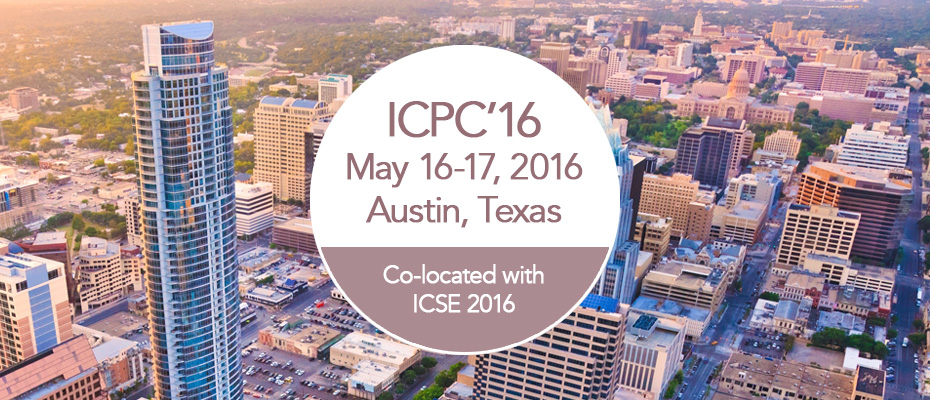
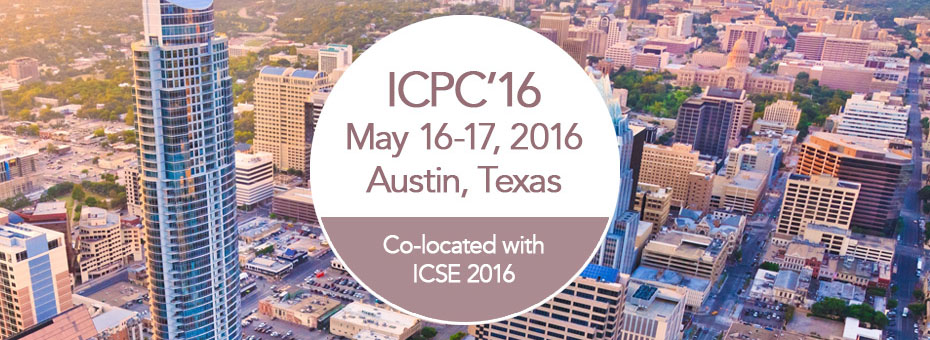
Updates

diff --git a/index.html b/index.html
@@ -142,7 +142,7 @@
   @media only screen and (min-width: 715px) {
     /* For tablet portrait: */
     .container {width:455px}
-    .imageDisplay {width:100%; margin-left:0px; margin-bottom:10px; height:auto;}
+    .imageDisplay {width:455px; height:166px; margin-left:0px; margin-bottom:4px; height:auto;}
     .box_Header {width:100%;}
     .box_A {width:100%;}
     .box_B {width:100%;}
@@ -152,7 +152,7 @@
   @media only screen and (min-width: 920px) {
     /* For tablet landscape: */
     .container {width:670px}
-    .imageDisplay {width:660px; height:285px; margin-left:10px; margin-bottom:10px;}
+    .imageDisplay {width:660px; height:241px; margin-left:10px; margin-bottom:10px;}
     .box_Header {width:660px; margin-left: 10px;}
     .box_Header h2 {margin-left: 0px; margin-right: 0px;}
     .box_A {width:325px; height:500px; margin-left:10px;}
@@ -163,7 +163,7 @@
   @media only screen and (min-width: 1190px) {
     /* For desktop: */
     .container {width:940px}
-    .imageDisplay {width:930px; height:400px; margin-left:10px; margin-bottom:10px;}
+    .imageDisplay {width:930px; height:340px; margin-left:10px; margin-bottom:10px;}
     .imageText {width:930px; display: inline;}
     .box_Header {width:930px; margin-left: 10px;}
     .box_A {width:303px; height:515px; margin-left:10px;}
@@ -198,14 +198,14 @@
           <img src="./images/menu.gif" alt="MENU" width="40" height="40">
         </div>
       </div>
-      <a href="#"><div class="navItem" style="color:#FFF; background-color:rgba(255,255,255,0.2); border-right:none;" id="menu0"><div style="width:44px; margin:auto;">HOME</div></div></a>
-      <a href="call.html"><div class="navItem" id="menu1"><div style="width:149px; margin:auto;">CALL FOR PAPERS</div></div></a>
-      <a href="https://easychair.org/conferences/?conf=icpc20160" target="_blank"><div class="navItem" id="menu2"><div style="width:149px; margin:auto;">PAPER SUBMISSION</div></div></a>
-      <a href="organization-program.html"><div class="navItem" id="menu4"><div style="width:102px; margin:auto;">ORGANIZATION</div></div></a>
-      <a href="keynote.html"><div class="navItem" id="menu5"><div style="width:102px; margin:auto;">KEYNOTE</div></div></a>
-      <a href="http://2016.icse.cs.txstate.edu/venue" target="_blank"><div class="navItem" id="menu7"><div style="width:46px; margin:auto;">VENUE</div></div></a>
-      <a href="http://2016.icse.cs.txstate.edu" target="_blank"><div class="navItem" id="menu8"><div style="width:52px; margin:auto;">AUSTIN</div></div></a>
-      <div class="spacer"></div>
+      <a href="#"><div class="navItem" style="color:#FFF; background-color:rgba(255,255,255,0.2); border-right:none;" id="menu0"><div style="width:42px; margin:auto;">HOME</div></div></a>
+      <a href="registration.html"><div class="navItem" id="menu1"><div style="width:99px; margin:auto;">REGISTRATION</div></div></a>
+      <a href="call.html"><div class="navItem" id="menu2"><div style="width:128px; margin:auto;">CALL FOR PAPERS</div></div></a>
+      <a href="https://easychair.org/conferences/?conf=icpc20160" target="_blank"><div class="navItem" id="menu3"><div style="width:139px; margin:auto;">PAPER SUBMISSION</div></div></a>
+      <a href="organization-program.html"><div class="navItem" id="menu4"><div style="width:103px; margin:auto;">ORGANIZATION</div></div></a>
+      <a href="keynote.html"><div class="navItem" id="menu5"><div style="width:64px; margin:auto;">KEYNOTE</div></div></a>
+      <a href="http://2016.icse.cs.txstate.edu/venue" target="_blank"><div class="navItem" id="menu6"><div style="width:46px; margin:auto;">VENUE</div></div></a>
+      <a href="http://2016.icse.cs.txstate.edu" target="_blank"><div class="navItem" id="menu7"><div style="width:50px; margin:auto;">AUSTIN</div></div></a>
     </div>
     <!-- End Navigation Menu -->
 

diff --git a/call.html b/call.html
@@ -232,14 +232,14 @@
           <img src="./images/menu.gif" alt="MENU" width="40" height="40">
         </div>
       </div>
-      <a href="index.html"><div class="navItem" id="menu0"><div style="width:44px; margin:auto;">HOME</div></div></a>
-      <a href="#"><div class="navItem" style="color:#FFF; background-color:rgba(255,255,255,0.2); border-right:none; border-left:none;" id="menu1"><div style="width:149px; margin:auto;">CALL FOR PAPERS</div></div></a>
-      <a href="https://easychair.org/conferences/?conf=icpc20160" target="_blank"><div class="navItem" id="menu2"><div style="width:149px; margin:auto;">PAPER SUBMISSION</div></div></a>
-      <a href="organization-program.html"><div class="navItem" id="menu4"><div style="width:102px; margin:auto;">ORGANIZATION</div></div></a>
-      <a href="keynote.html"><div class="navItem" id="menu5"><div style="width:102px; margin:auto;">KEYNOTE</div></div></a>
-      <a href="http://2016.icse.cs.txstate.edu/venue" target="_blank"><div class="navItem" id="menu7"><div style="width:46px; margin:auto;">VENUE</div></div></a>
-      <a href="http://2016.icse.cs.txstate.edu" target="_blank"><div class="navItem" id="menu8"><div style="width:52px; margin:auto;">AUSTIN</div></div></a>
-      <div class="spacer" id="menu6"></div>
+      <a href="index.html"><div class="navItem" id="menu0"><div style="width:42px; margin:auto;">HOME</div></div></a>
+      <a href="registration.html"><div class="navItem" id="menu1"><div style="width:99px; margin:auto;">REGISTRATION</div></div></a>
+      <a href="#"><div class="navItem" style="color:#FFF; background-color:rgba(255,255,255,0.2); border-right:none;" id="menu2"><div style="width:128px; margin:auto;">CALL FOR PAPERS</div></div></a>
+      <a href="https://easychair.org/conferences/?conf=icpc20160" target="_blank"><div class="navItem" id="menu3"><div style="width:139px; margin:auto;">PAPER SUBMISSION</div></div></a>
+      <a href="organization-program.html"><div class="navItem" id="menu4"><div style="width:103px; margin:auto;">ORGANIZATION</div></div></a>
+      <a href="keynote.html"><div class="navItem" id="menu5"><div style="width:64px; margin:auto;">KEYNOTE</div></div></a>
+      <a href="http://2016.icse.cs.txstate.edu/venue" target="_blank"><div class="navItem" id="menu6"><div style="width:46px; margin:auto;">VENUE</div></div></a>
+      <a href="http://2016.icse.cs.txstate.edu" target="_blank"><div class="navItem" id="menu7"><div style="width:50px; margin:auto;">AUSTIN</div></div></a>
     </div>
     <!-- End Navigation Menu -->
 

diff --git a/organization-program.html b/organization-program.html
@@ -258,14 +258,14 @@
           <img src="./images/menu.gif" alt="MENU" width="40" height="40">
         </div>
       </div>
-      <a href="index.html"><div class="navItem" id="menu0"><div style="width:44px; margin:auto;">HOME</div></div></a>
-      <a href="call.html"><div class="navItem" id="menu1"><div style="width:149px; margin:auto;">CALL FOR PAPERS</div></div></a>
-      <a href="https://easychair.org/conferences/?conf=icpc20160" target="_blank"><div class="navItem" id="menu2"><div style="width:149px; margin:auto;">PAPER SUBMISSION</div></div></a>
-      <a href="#"><div class="navItem" style="color:#FFF; background-color:rgba(255,255,255,0.2); border-right:none; border-left:none;" id="menu4"><div style="width:102px; margin:auto;">ORGANIZATION</div></div></a>
-      <a href="keynote.html"><div class="navItem" id="menu5"><div style="width:102px; margin:auto;">KEYNOTE</div></div></a>
-      <a href="http://2016.icse.cs.txstate.edu/venue" target="_blank"><div class="navItem" id="menu7"><div style="width:46px; margin:auto;">VENUE</div></div></a>
-      <a href="http://2016.icse.cs.txstate.edu" target="_blank"><div class="navItem" id="menu8"><div style="width:52px; margin:auto;">AUSTIN</div></div></a>
-      <div class="spacer" id="menu6"></div>
+      <a href="index.html"><div class="navItem" id="menu0"><div style="width:42px; margin:auto;">HOME</div></div></a>
+      <a href="registration.html"><div class="navItem" id="menu1"><div style="width:99px; margin:auto;">REGISTRATION</div></div></a>
+      <a href="call.html"><div class="navItem" id="menu2"><div style="width:128px; margin:auto;">CALL FOR PAPERS</div></div></a>
+      <a href="https://easychair.org/conferences/?conf=icpc20160" target="_blank"><div class="navItem" id="menu3"><div style="width:139px; margin:auto;">PAPER SUBMISSION</div></div></a>
+      <a href="#"><div class="navItem" style="color:#FFF; background-color:rgba(255,255,255,0.2); border-right:none;" id="menu4"><div style="width:103px; margin:auto;">ORGANIZATION</div></div></a>
+      <a href="keynote.html"><div class="navItem" id="menu5"><div style="width:64px; margin:auto;">KEYNOTE</div></div></a>
+      <a href="http://2016.icse.cs.txstate.edu/venue" target="_blank"><div class="navItem" id="menu6"><div style="width:46px; margin:auto;">VENUE</div></div></a>
+      <a href="http://2016.icse.cs.txstate.edu" target="_blank"><div class="navItem" id="menu7"><div style="width:50px; margin:auto;">AUSTIN</div></div></a>
     </div>
     <!-- End Navigation Menu -->
 

diff --git a/organization-steering.html b/organization-steering.html
@@ -227,14 +227,14 @@
           <img src="./images/menu.gif" alt="MENU" width="40" height="40">
         </div>
       </div>
-      <a href="index.html"><div class="navItem" id="menu0"><div style="width:44px; margin:auto;">HOME</div></div></a>
-      <a href="call.html"><div class="navItem" id="menu1"><div style="width:149px; margin:auto;">CALL FOR PAPERS</div></div></a>
-      <a href="https://easychair.org/conferences/?conf=icpc20160" target="_blank"><div class="navItem" id="menu2"><div style="width:149px; margin:auto;">PAPER SUBMISSION</div></div></a>
-      <a href="#"><div class="navItem" style="color:#FFF; background-color:rgba(255,255,255,0.2); border-right:none; border-left:none;" id="menu4"><div style="width:102px; margin:auto;">ORGANIZATION</div></div></a>
-      <a href="keynote.html"><div class="navItem" id="menu5"><div style="width:102px; margin:auto;">KEYNOTE</div></div></a>
-      <a href="http://2016.icse.cs.txstate.edu/venue" target="_blank"><div class="navItem" id="menu7"><div style="width:46px; margin:auto;">VENUE</div></div></a>
-      <a href="http://2016.icse.cs.txstate.edu" target="_blank"><div class="navItem" id="menu8"><div style="width:52px; margin:auto;">AUSTIN</div></div></a>
-      <div class="spacer" id="menu6"></div>
+      <a href="index.html"><div class="navItem" id="menu0"><div style="width:42px; margin:auto;">HOME</div></div></a>
+      <a href="registration.html"><div class="navItem" id="menu1"><div style="width:99px; margin:auto;">REGISTRATION</div></div></a>
+      <a href="call.html"><div class="navItem" id="menu2"><div style="width:128px; margin:auto;">CALL FOR PAPERS</div></div></a>
+      <a href="https://easychair.org/conferences/?conf=icpc20160" target="_blank"><div class="navItem" id="menu3"><div style="width:139px; margin:auto;">PAPER SUBMISSION</div></div></a>
+      <a href="#"><div class="navItem" style="color:#FFF; background-color:rgba(255,255,255,0.2); border-right:none;" id="menu4"><div style="width:103px; margin:auto;">ORGANIZATION</div></div></a>
+      <a href="keynote.html"><div class="navItem" id="menu5"><div style="width:64px; margin:auto;">KEYNOTE</div></div></a>
+      <a href="http://2016.icse.cs.txstate.edu/venue" target="_blank"><div class="navItem" id="menu6"><div style="width:46px; margin:auto;">VENUE</div></div></a>
+      <a href="http://2016.icse.cs.txstate.edu" target="_blank"><div class="navItem" id="menu7"><div style="width:50px; margin:auto;">AUSTIN</div></div></a>
     </div>
     <!-- End Navigation Menu -->
 

diff --git a/organization.html b/organization.html
@@ -227,14 +227,14 @@
           <img src="./images/menu.gif" alt="MENU" width="40" height="40">
         </div>
       </div>
-      <a href="index.html"><div class="navItem" id="menu0"><div style="width:44px; margin:auto;">HOME</div></div></a>
-      <a href="call.html"><div class="navItem" id="menu1"><div style="width:149px; margin:auto;">CALL FOR PAPERS</div></div></a>
-      <a href="https://easychair.org/conferences/?conf=icpc20160" target="_blank"><div class="navItem" id="menu2"><div style="width:149px; margin:auto;">PAPER SUBMISSION</div></div></a>
-      <a href="#"><div class="navItem" style="color:#FFF; background-color:rgba(255,255,255,0.2); border-right:none; border-left:none;" id="menu4"><div style="width:102px; margin:auto;">ORGANIZATION</div></div></a>
-      <a href="keynote.html"><div class="navItem" id="menu5"><div style="width:102px; margin:auto;">KEYNOTE</div></div></a>
-      <a href="http://2016.icse.cs.txstate.edu/venue" target="_blank"><div class="navItem" id="menu7"><div style="width:46px; margin:auto;">VENUE</div></div></a>
-      <a href="http://2016.icse.cs.txstate.edu" target="_blank"><div class="navItem" id="menu8"><div style="width:52px; margin:auto;">AUSTIN</div></div></a>
-      <div class="spacer" id="menu6"></div>
+      <a href="index.html"><div class="navItem" id="menu0"><div style="width:42px; margin:auto;">HOME</div></div></a>
+      <a href="registration.html"><div class="navItem" id="menu1"><div style="width:99px; margin:auto;">REGISTRATION</div></div></a>
+      <a href="call.html"><div class="navItem" id="menu2"><div style="width:128px; margin:auto;">CALL FOR PAPERS</div></div></a>
+      <a href="https://easychair.org/conferences/?conf=icpc20160" target="_blank"><div class="navItem" id="menu3"><div style="width:139px; margin:auto;">PAPER SUBMISSION</div></div></a>
+      <a href="#"><div class="navItem" style="color:#FFF; background-color:rgba(255,255,255,0.2); border-right:none;" id="menu4"><div style="width:103px; margin:auto;">ORGANIZATION</div></div></a>
+      <a href="keynote.html"><div class="navItem" id="menu5"><div style="width:64px; margin:auto;">KEYNOTE</div></div></a>
+      <a href="http://2016.icse.cs.txstate.edu/venue" target="_blank"><div class="navItem" id="menu6"><div style="width:46px; margin:auto;">VENUE</div></div></a>
+      <a href="http://2016.icse.cs.txstate.edu" target="_blank"><div class="navItem" id="menu7"><div style="width:50px; margin:auto;">AUSTIN</div></div></a>
     </div>
     <!-- End Navigation Menu -->
 

diff --git a/keynote.html b/keynote.html
@@ -234,14 +234,14 @@
           <img src="./images/menu.gif" alt="MENU" width="40" height="40">
         </div>
       </div>
-      <a href="index.html"><div class="navItem" id="menu0"><div style="width:44px; margin:auto;">HOME</div></div></a>
-      <a href="call.html"><div class="navItem" id="menu1"><div style="width:149px; margin:auto;">CALL FOR PAPERS</div></div></a>
-      <a href="https://easychair.org/conferences/?conf=icpc20160" target="_blank"><div class="navItem" id="menu2"><div style="width:149px; margin:auto;">PAPER SUBMISSION</div></div></a>
-      <a href="organization-program.html"><div class="navItem" id="menu4"><div style="width:102px; margin:auto;">ORGANIZATION</div></div></a>
-      <a href="#"><div class="navItem" style="color:#FFF; background-color:rgba(255,255,255,0.2); border-right:none;" id="menu5"><div style="width:102px; margin:auto;">KEYNOTE</div></div></a>
-      <a href="http://2016.icse.cs.txstate.edu/venue" target="_blank"><div class="navItem" id="menu7"><div style="width:46px; margin:auto;">VENUE</div></div></a>
-      <a href="http://2016.icse.cs.txstate.edu" target="_blank"><div class="navItem" id="menu8"><div style="width:52px; margin:auto;">AUSTIN</div></div></a>
-      <div class="spacer"></div>
+      <a href="index.html"><div class="navItem" id="menu0"><div style="width:42px; margin:auto;">HOME</div></div></a>
+      <a href="registration.html"><div class="navItem" id="menu1"><div style="width:99px; margin:auto;">REGISTRATION</div></div></a>
+      <a href="call.html"><div class="navItem" id="menu2"><div style="width:128px; margin:auto;">CALL FOR PAPERS</div></div></a>
+      <a href="https://easychair.org/conferences/?conf=icpc20160" target="_blank"><div class="navItem" id="menu3"><div style="width:139px; margin:auto;">PAPER SUBMISSION</div></div></a>
+      <a href="organization-program.html"><div class="navItem" id="menu4"><div style="width:103px; margin:auto;">ORGANIZATION</div></div></a>
+      <a href="#"><div class="navItem" style="color:#FFF; background-color:rgba(255,255,255,0.2); border-right:none;" id="menu5"><div style="width:64px; margin:auto;">KEYNOTE</div></div></a>
+      <a href="http://2016.icse.cs.txstate.edu/venue" target="_blank"><div class="navItem" id="menu6"><div style="width:46px; margin:auto;">VENUE</div></div></a>
+      <a href="http://2016.icse.cs.txstate.edu" target="_blank"><div class="navItem" id="menu7"><div style="width:50px; margin:auto;">AUSTIN</div></div></a>
     </div>
     <!-- End Navigation Menu -->
 

diff --git a/css/base_style.css b/css/base_style.css
@@ -270,7 +270,7 @@ h3 {
     .social {display:none;}
     .navExpand {display:none;}
     .navContract {display:none;}
-    .navItem {width:auto; padding:0 2px 0 2px; font-size:12px; line-height:38px; display:block; border:1px solid #FFF;}
+    .navItem {width:auto; padding:0; font-size:12px; line-height:38px; display:block; border:1px solid #FFF;}
     .content {width:695px; margin-top:30px;}
     .sidebar {display:block;}
     .box_Header {width:455px;}
@@ -295,7 +295,7 @@ h3 {
     .social {display:none;}
     .navExpand {display:none;}
     .navContract {display:none;}
-    .navItem {width:auto; padding:0 13px 0 14px; font-size:14px; line-height:38px; display:block; border:1px solid #FFF;}
+    .navItem {width:auto; padding:0 13px 0 13px; font-size:14px; line-height:38px; display:block; border:1px solid #FFF;}
     .content {width:900px; margin-top:30px;}
     .sidebar {display:block;}
     .box_Header {width:660px;}
@@ -320,7 +320,7 @@ h3 {
     .social {display:none;}
     .navExpand {display:none;}
     .navContract {display:none;}
-    .navItem {width:auto; padding:0 28px 0 29px; font-size:14px; line-height:38px; display:block; border:1px solid #FFF;}
+    .navItem {width:auto; padding:0 30px 0 30px; font-size:14px; line-height:38px; display:block; border:1px solid #FFF;}
     .content {width:1170px; margin-top:30px;}
     .sidebar {display:block;}
     .box_Header {width:930px;}

diff --git a/news.html b/news.html
@@ -1,3 +1,5 @@
+<p class="track">Mar 29, 2016</p>
+<p>Registration is open</p>
 <p class="track">Mar 22, 2016</p>
 <p>Author Notification closed for Technical Research Track</p>
 <p class="track">Feb 18, 2016</p>
